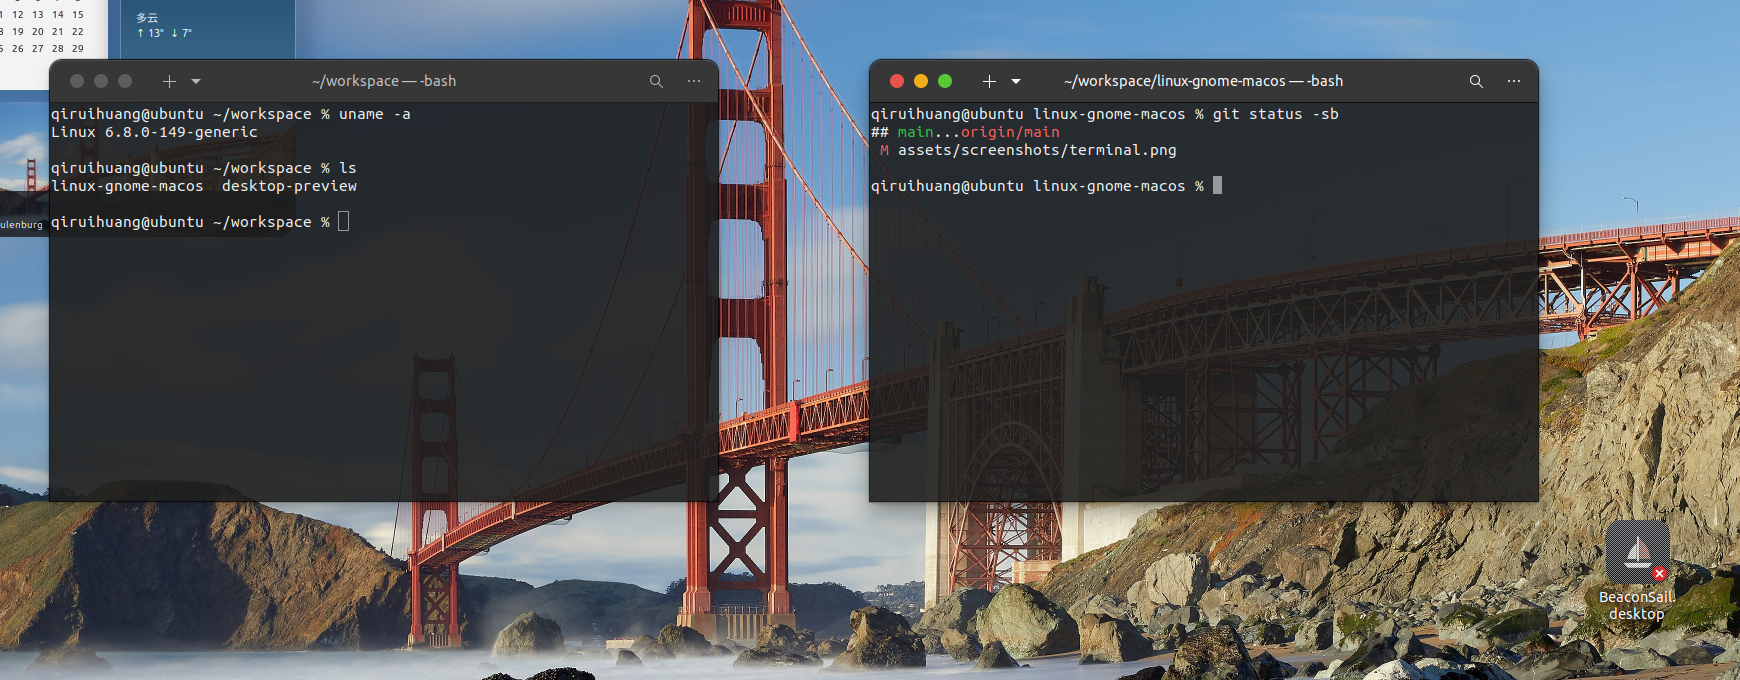
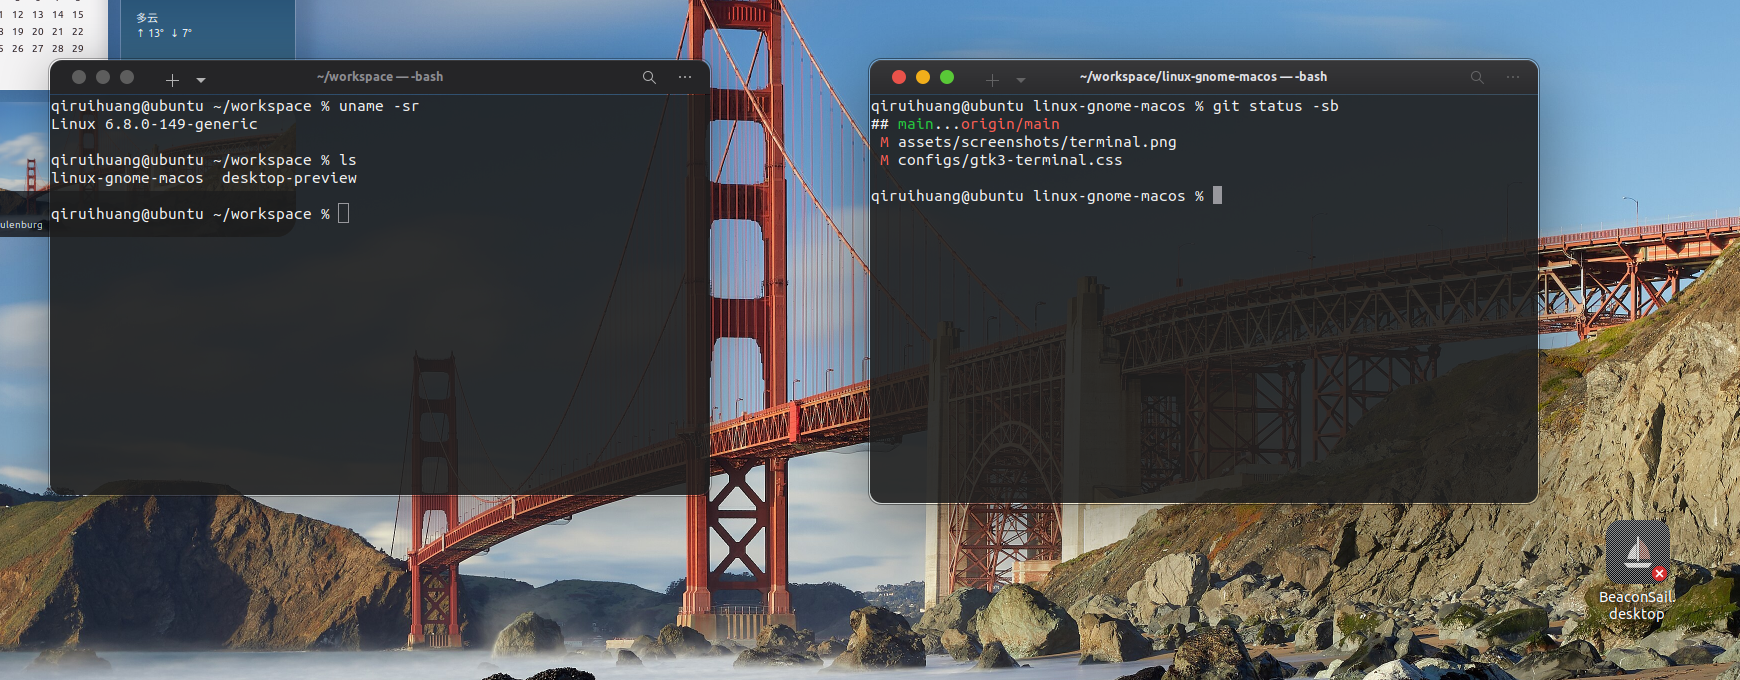
Fix bottom rounded corners on dark-variant GNOME Terminal and update screenshot

diff --git a/configs/gtk3-terminal.css b/configs/gtk3-terminal.css
@@ -12,16 +12,20 @@ vte-terminal {
     -VteTerminal-inner-border: 10px 14px 2px 14px;
 }
 
+terminal-window notebook {
+    margin-bottom: 10px;
+}
+
 terminal-window,
 terminal-window.background,
 terminal-window.background.csd {
-    border-radius: 10px;
-    background-color: transparent;
+    border-radius: 12px;
+    background-color: rgba(30, 30, 30, 0.90);
 }
 
 terminal-window decoration,
 terminal-window.csd decoration {
-    border-radius: 10px;
+    border-radius: 12px;
     border: 1px solid rgba(255, 255, 255, 0.16);
     box-shadow: 0 18px 42px rgba(0, 0, 0, 0.48), 0 0 0 1px rgba(0, 0, 0, 0.42);
 }
@@ -32,22 +36,17 @@ terminal-window.csd decoration:backdrop {
     box-shadow: 0 8px 24px rgba(0, 0, 0, 0.30), 0 0 0 1px rgba(0, 0, 0, 0.30);
 }
 
-/* Bottom rounded cap matching macOS Pro 90% opacity #1E1E1E so VteTerminal stops above the corner arc */
-terminal-window notebook {
-    background-color: rgba(30, 30, 30, 0.90);
-    border-radius: 0 0 10px 10px;
-    padding-bottom: 10px;
-}
-
 terminal-window.maximized,
 terminal-window.maximized decoration,
-terminal-window.maximized notebook,
 terminal-window.tiled,
-terminal-window.tiled decoration,
-terminal-window.tiled notebook {
+terminal-window.tiled decoration {
     border-radius: 0;
     border: none;
-    padding-bottom: 0;
+}
+
+terminal-window.maximized notebook,
+terminal-window.tiled notebook {
+    margin-bottom: 0;
 }
 
 /* Slim macOS-style titlebar */
